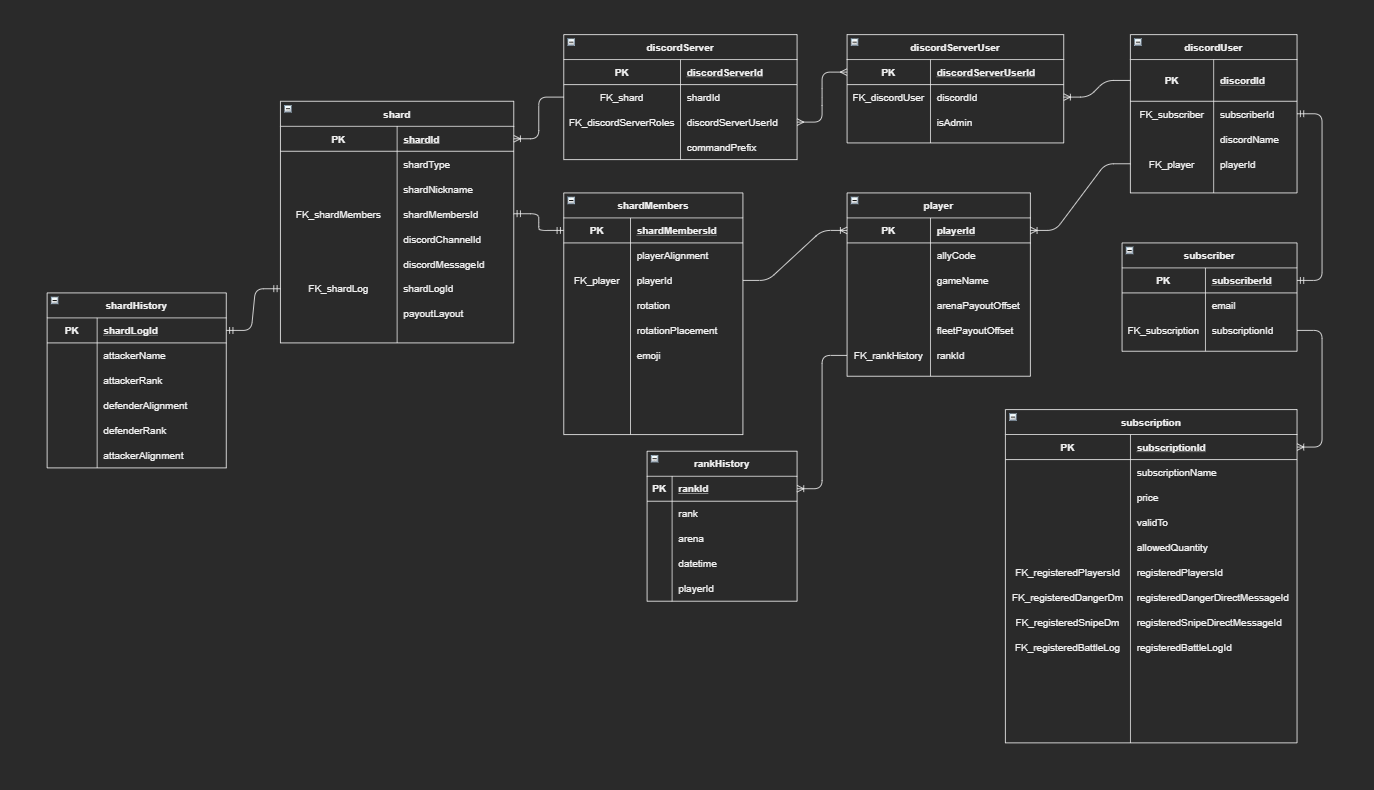
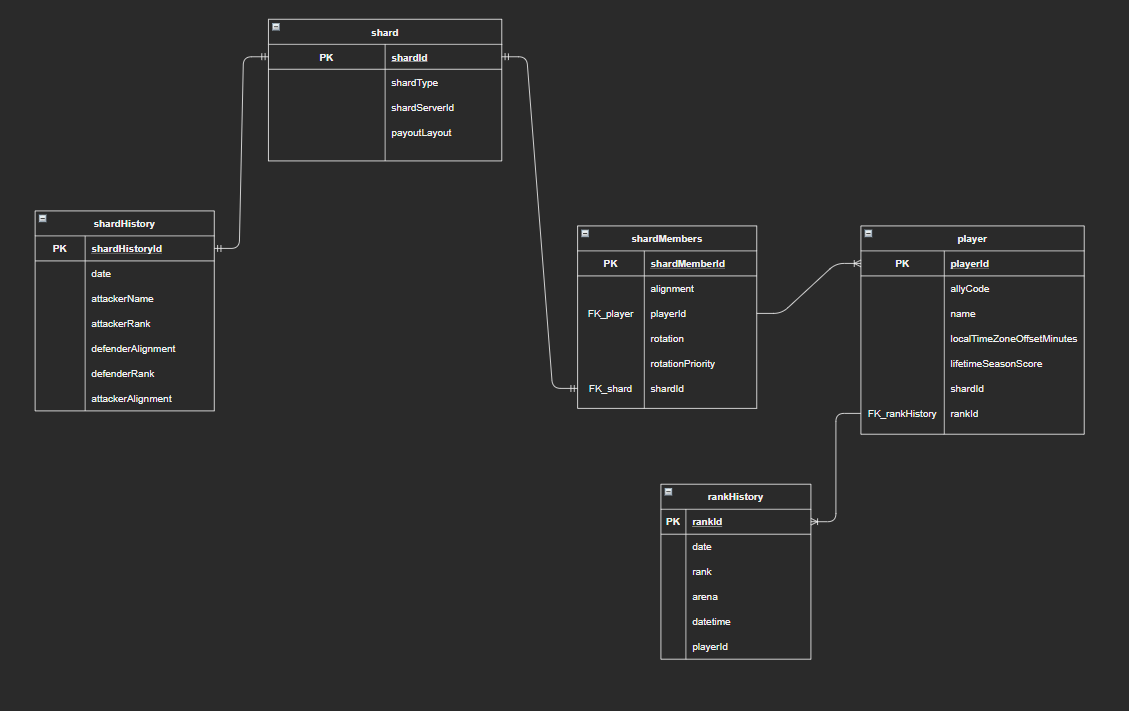
Adding more text to A1

diff --git a/Design Report A1.md b/Design Report A1.md
@@ -14,7 +14,7 @@ The game has different arenas where players that belong to the same "shard" (a b
 Since the beginning Discord has been the main communication method for these shard chats and there have been different ways of displaying when everyone has their different payout times, but the most basic form was lists where everyone had to write their own payout time.
 
 ### How to help the player base
-In order to help player base as much as possible a Discord bot was created, called "KickAss Payouts Bot", expanding upon the reverse-engineered solution, which was supposed to show live payouts data (updating every other minute) as well as direct message users whenever they lose rank in-game. Due to the author being junior at the time the solution might not have been the best one from both an architectural standpoint but also code quality. There are many other features to the original bot, but these two (Live Payout Data and DM on drop) the areas in scope for this course.
+In order to help player base as much as possible a Discord bot was created, called "KickAss Payouts Bot", expanding upon the reverse-engineered solution, which was supposed to show live payouts data (updating every other minute) as well as direct message users whenever they lose rank in-game. Due to the author being junior at the time the solution might not have been the best one from both an architectural standpoint but also code quality. There are many other features to the original bot, but these two (Live Payout Data and DM on drop) the areas in scope for this course. The below pictures illustrates how the bot is functioning today where a message is updated for each shard chat to illustrate live payout data and a direct message is sent to a user on drop.
 
 ![Payout](KickAssPayoutBotPayout.PNG "Payout") ![DM](KickAssPayoutBotDm.PNG "DM")
 
@@ -22,8 +22,48 @@ In order to help player base as much as possible a Discord bot was created, call
 
 ![Overall structure of the application](DesignReportOverviewOverApplication.PNG "Overall structure of the application")
 
-The application consist of four different virtual machines that are communicating with each other in different ways.
+The application consist of four different virtual machines hosted on my own dedicated server that are communicating with each other in different ways. In its core an MVC architectural pattern has been choosen clearly seperating different virtual machines into either Model/Controller or View. A sense of event-driven architecture can also be seen since the backend (KickAssBackend) is suppose to communicate with primarily the discord view through a websocket, telling the application when to communicate either through editing a shard payout message or direct messaging a user that their rank has dropped. Secondly a website will be created where users can login through Discord OAuth and see all shards/servers that they have access to. Finally the application communicating with the game server (swArenaApi) can be seen as a microservice, as its sole purpose is to fetch data from the game server based on input, and it has a very standardized way of doing so (through websockets).
 
 ## Frontend
 
 ## Backend
+### **Data flow diagram**
+Please see the attached schemas around the dataflow.
+
+![High level data flow](HDataflow.PNG "High level data flow")
+
+![Low level data flow](LDataflow.PNG "Low level data flow")
+
+### **KickAssPayoutsBackend**
+
+**Description**
+<br/>
+A web API capable of persisting user preferences and user input to a MySQL database, as well as specifying data to be retreived by API. The backend should continuously poll the game servers through the swArenaApi websocket in order to save and store data needed to be provided. Whenever data is accessed through the API the most current data is sent back for that perticular request (being either Discord or web browser).
+
+**Frameworks and dependencies**
+<br/>
+ASP.Net Core will be used as a web application framework in order to easily handle the creation and usage of APIs.
+In order to satisfy an easy way of communicating with the MySQL database the MySQLConnector package has been choosen as a serve-side framework.
+To create on the fly documentation around the web API created Swashbuckle.AspNetCore will be used. Swashbuckle is an open source project for generating Swagger documents for Web APIs that are built with ASP.NET Core.
+A project SDK, Microsoft.NET.Sdk.Web, is used for easy build and deployment as a dotnet webapp.
+
+**Persistent data**
+<br/>
+The value of this application comes through the consistant polling of current data which only few people can access through a computer backend. In order to support user preference as well as the added value of data history a database is needed to persist data. For this project a MySQL database has been selected as a database. Please see the attached database schema around how the database should be structured.
+![Database schema](Database.PNG "Database schema")
+
+**API**
+<br/>
+The value of this application comes through the consistant polling of current data which only few people can access through a computer backend. In order to support user preference as well as the added value of data history a database is needed to persist data. For this project a MySQL database has been selected as a database. Please see the attached database schema around how the database should be structured.
+![Database schema](Database.PNG "Database schema")
+
+### **swArenaApi**
+**Description**
+<br/>
+An application built in Node.JS able to communicate with the Star Wars Galaxy of Heroes game servers using the RPC protocol. The application is wrapped around a websocket enabling fast and consistant communication with whichever service that connects to it (currently only the KickAssPayoutsBackend service). This project is the core of the architecture and quite a few trade secrets are stored within its source-code. As such this code will not be pushed to the repository in the final handin of the project.
+
+**Frameworks and dependencies**
+<br/>
+In order to serilize and deserilize requests from and to the games servers the protobufjs framework is used to translate data structures into readable JSON objects.
+As mentioned above the application is wrapped around a websocket, as such the ws dependency is used.
+To create make calls to the games RPC node-fetch has been chosen as a dependency.
